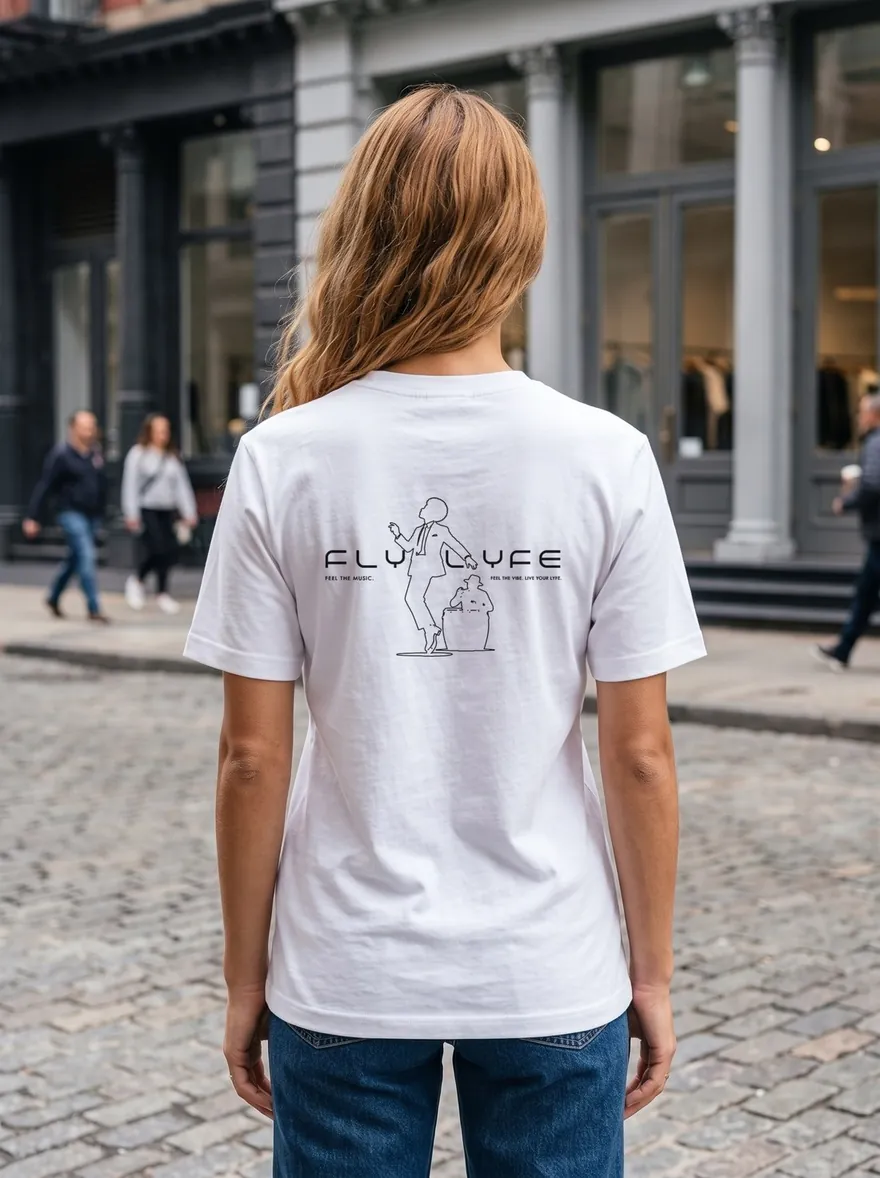
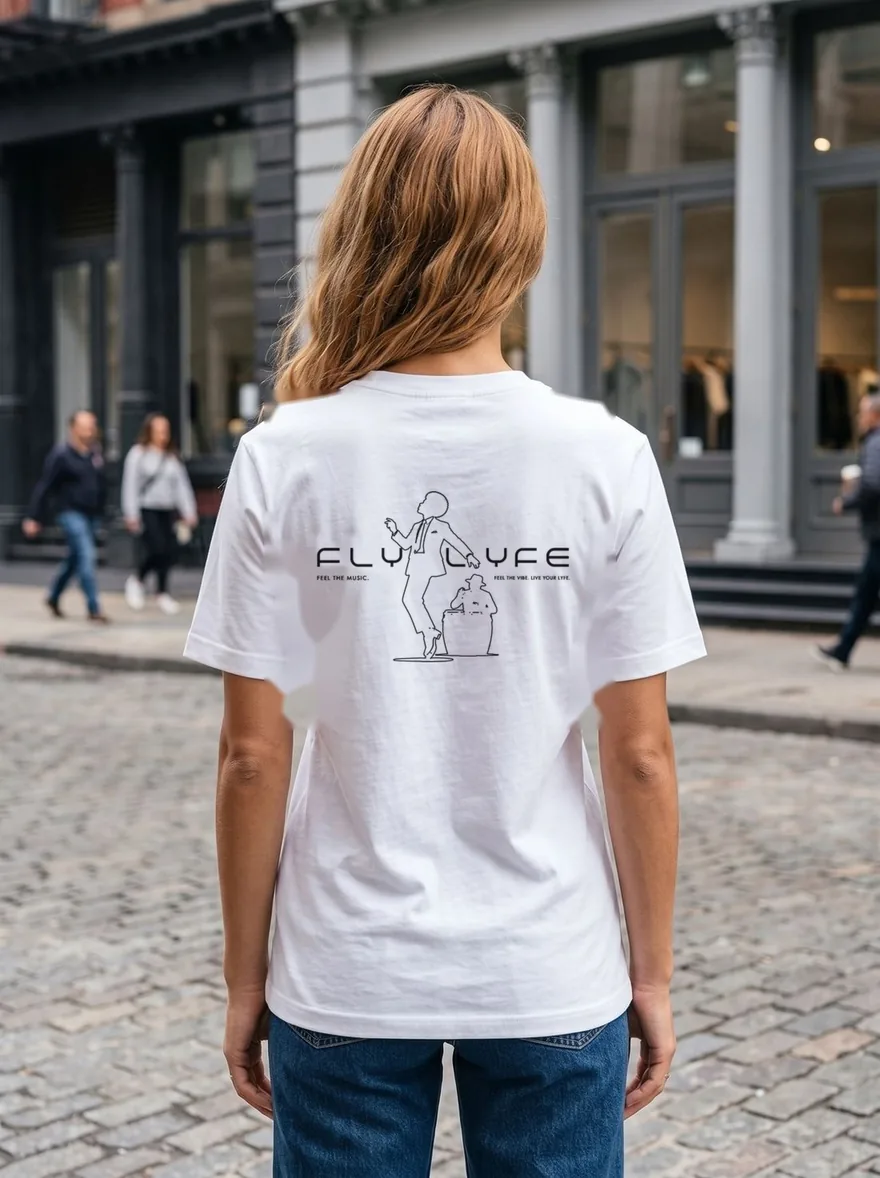
Conga Tee Women's: 11in back print mockups, bump asset cache-busters
Regenerate the women's Conga Tee front/back mockups (White/Black/Natural),
their responsive WebPs and the homepage card to show the new 11in-wide
back print and 11.25in chest wordmark, matching the rebuilt Apliiq designs.

diff --git a/js/app.js b/js/app.js
@@ -193,11 +193,11 @@ function shopVarImg(p, color) {
 
 async function init() {
   const [modelMan, data] = await Promise.all([
-    fetch('assets/products-model/manifest.json?v=20260923').then(r=>r.json()).catch(()=>({})),
+    fetch('assets/products-model/manifest.json?v=20260923b').then(r=>r.json()).catch(()=>({})),
     gql(PRODUCT_Q)
   ]);
   /* cache-bust product images so updated placements replace cached copies */
-  const ASSET_V = '20260923';
+  const ASSET_V = '20260923b';
   const _bust = u => u ? u + (u.includes('?') ? '&' : '?') + 'v=' + ASSET_V : u;
   Object.values(modelMan).forEach(colors => Object.values(colors).forEach(v => {
     if (v.front) v.front = _bust(v.front);

diff --git a/js/product-page.js b/js/product-page.js
@@ -142,7 +142,7 @@ function render() {
 }
 async function initProductPage() {
   try {
-    const [data,manifest]=await Promise.all([gql(PRODUCT_Q,{handle}),fetch('/assets/products-model/manifest.json?v=20260923').then(r=>r.ok?r.json():{}).catch(()=>({}))]);
+    const [data,manifest]=await Promise.all([gql(PRODUCT_Q,{handle}),fetch('/assets/products-model/manifest.json?v=20260923b').then(r=>r.ok?r.json():{}).catch(()=>({}))]);
     product=data.product;imageManifest=manifest;
     if(!product || product.vendor!=='FLYLYFE') throw new Error('FLYLYFE product not found');
     render();
